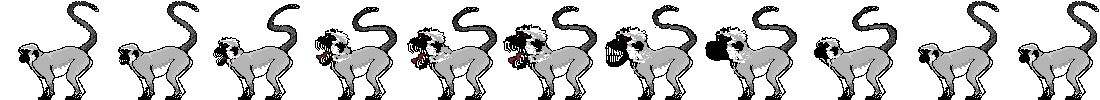
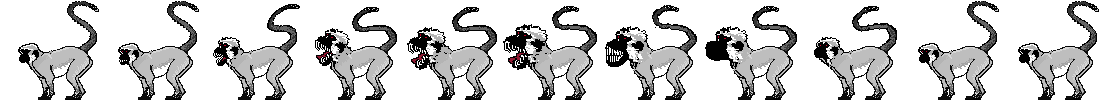
Added babboon assets and began adding ui

diff --git a/source/game_ui.cpp b/source/game_ui.cpp
@@ -1,0 +1,18 @@
+#include <game_ui.h>
+#include <utilities/window.h>
+
+//------------------------------------------------------------------//
+
+GameUi::GameUi()
+    : mp_continue(new AE::Sprite())
+    , m_windowResized([this](AE::Vector2 windowSize) { setSize(windowSize); })
+{
+    addChild(mp_continue);
+    mp_continue->setTexture("assets/continue.png");
+    mp_continue->setScale({ 4.0, 4.0 });
+    setIsUi(true);
+    setSize(AE::Window::size());
+    mp_continue->setGlobalPosition({ 600, 0 });
+}
+
+//------------------------------------------------------------------//

diff --git a/source/game_ui.h b/source/game_ui.h
@@ -1,0 +1,19 @@
+#pragma once
+
+#include <objects/sprite.h>
+#include <utilities/signal.h>
+
+//------------------------------------------------------------------//
+
+class GameUi : public AE::Object
+{
+public:
+    GameUi();
+
+private:
+    AE::Sprite *mp_continue{ nullptr };
+
+    AE::Slot<AE::Vector2> m_windowResized;
+};
+
+//------------------------------------------------------------------//

diff --git a/source/main.cpp b/source/main.cpp
@@ -2,6 +2,7 @@
 #include <layers/game_layer.h>
 
 #include <bananaman_origins.h>
+#include <game_ui.h>
 
 //------------------------------------------------------------------//
 
@@ -9,6 +10,7 @@ int main(int argc, char *argv[])
 {
     AE::App app;
     app.addLayer<AE::GameLayer>(new BananaManOrigins());
+    app.addLayer<AE::GameLayer>(new GameUi());
     return app.run();
 }
 

diff --git a/source/player/banana_projectile.cpp b/source/player/banana_projectile.cpp
@@ -7,7 +7,7 @@
 
 //------------------------------------------------------------------//
 
-BananaProjectile::BananaProjectile(AE::Vector2 direction, double speed)
+BananaProjectile::(AE::Vector2 direction, double speed)
     : mp_collision(new AE::Collision())
     , m_collided(
           [this](AE::Collision *p_collision)
